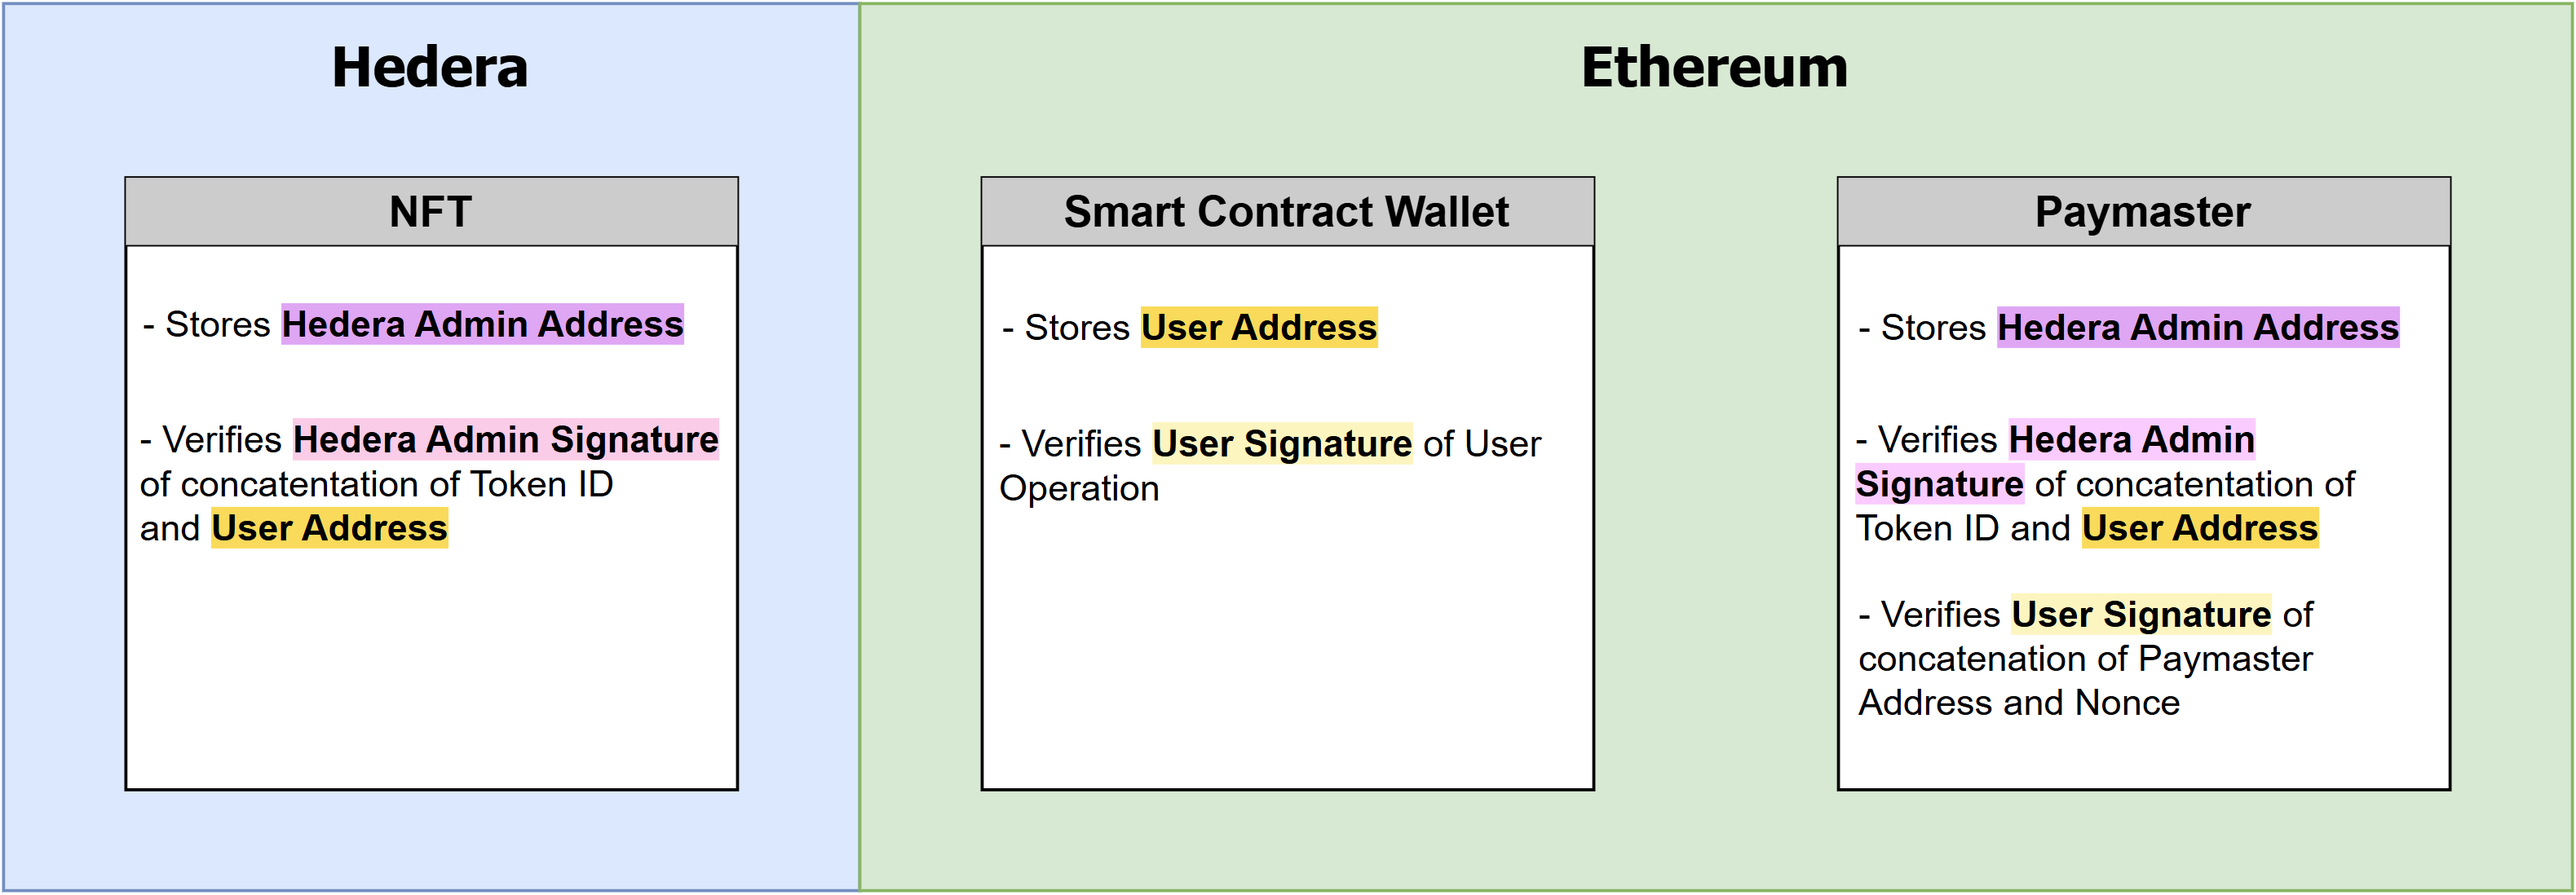
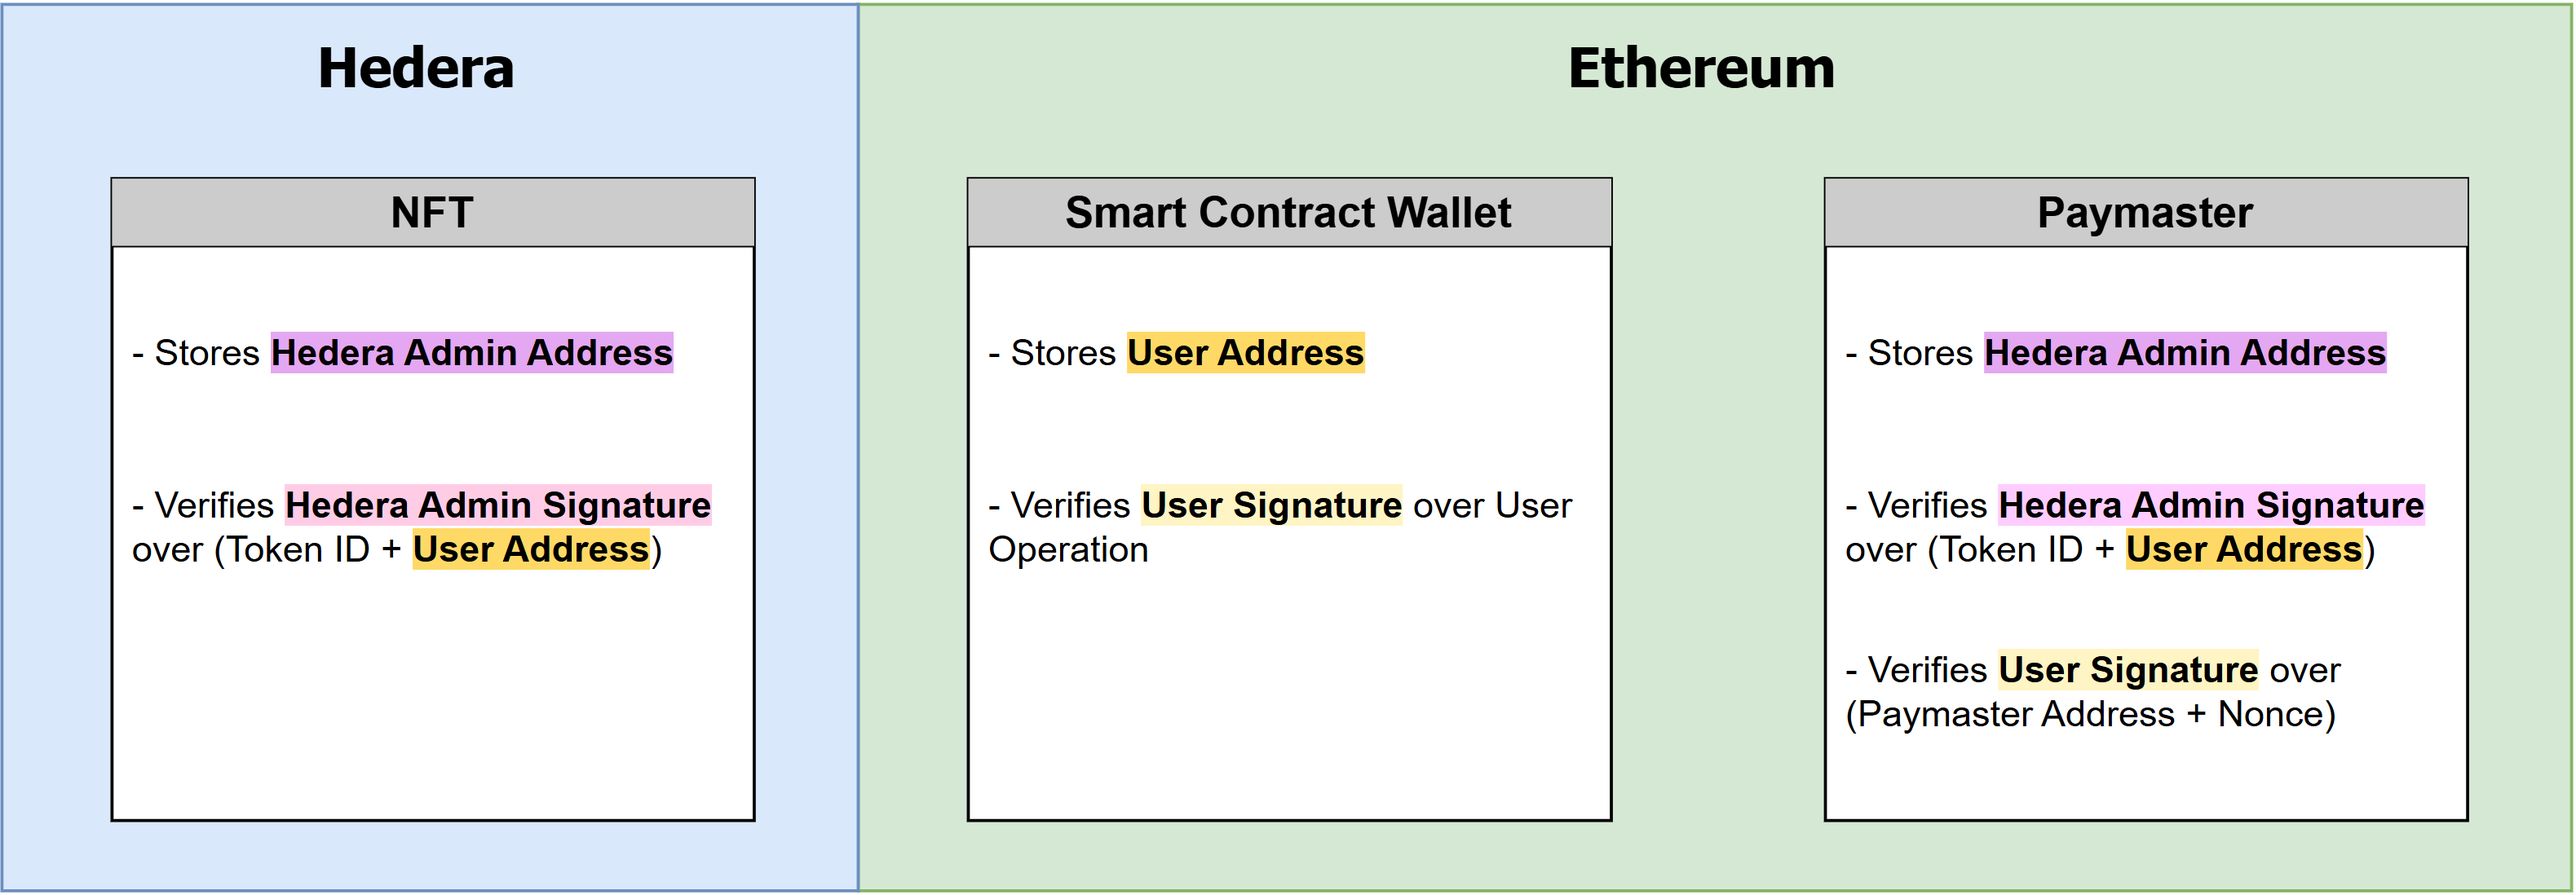
diagram improvement

diff --git a/README.md b/README.md
@@ -56,7 +56,7 @@ The NFT contract on Hedera manages minting and ownership verification for cross-
 - **Stores Hedera Admin Address**  
 > Tracks the public key whose corresponding private key is authorized to sign NFT mints.
 
-- **Verifies Hedera Admin Signature of Token ID and User Address**  
+- **Verifies Hedera Admin Signature over (Token ID + User Address)**  
 > When a user mints an NFT, the contract validates the admin's signature over the combination of the **Token ID** and **User Address**, ensuring each NFT is securely linked to the correct user.
 
 ### 🟩 Ethereum: Smart Contract Wallet Contract
@@ -66,7 +66,7 @@ Each user interacts on Ethereum via an ERC-4337-compatible Smart Contract Wallet
 - **Stores User Address**
 > Tracks the user's Ethereum address that controls the wallet.
 
-- **Verifies User Signature of User Operation**
+- **Verifies User Signature over User Operation**
 > Ensures that any UserOperation (ERC-4337 transaction) is properly signed by the user before execution, maintaining transaction authenticity.
 
 ### 🟩 Ethereum: Paymaster Contract
@@ -76,10 +76,10 @@ The Paymaster enables **gasless transactions** for users who own valid NFTs on H
 - **Stores Hedera Admin Address**
 > Tracks the public key of the Hedera Admin to be used for signature verification.
 
-- **Verifies Hedera Admin Signature of Token ID and User Address**
+- **Verifies Hedera Admin Signature over (Token ID + User Address)**
 > Validates the user's NFT ownership by verifying **Token ID** and **User Address** against the **Hedera Admin Signature**.
 
-- **Verifies User Signature of Paymaster Address and Nonce**
+- **Verifies User Signature over (Paymaster Address + Nonce)**
 > Prevents replay attacks by requiring users to sign a combination of the **Paymaster Address** and a **Nonce**.
 
 Importantly, since the same **User Address** is validated in both verification flows, this ensures that the **same user** who owns the NFT on Hedera is also the one intending to transact on Ethereum.
